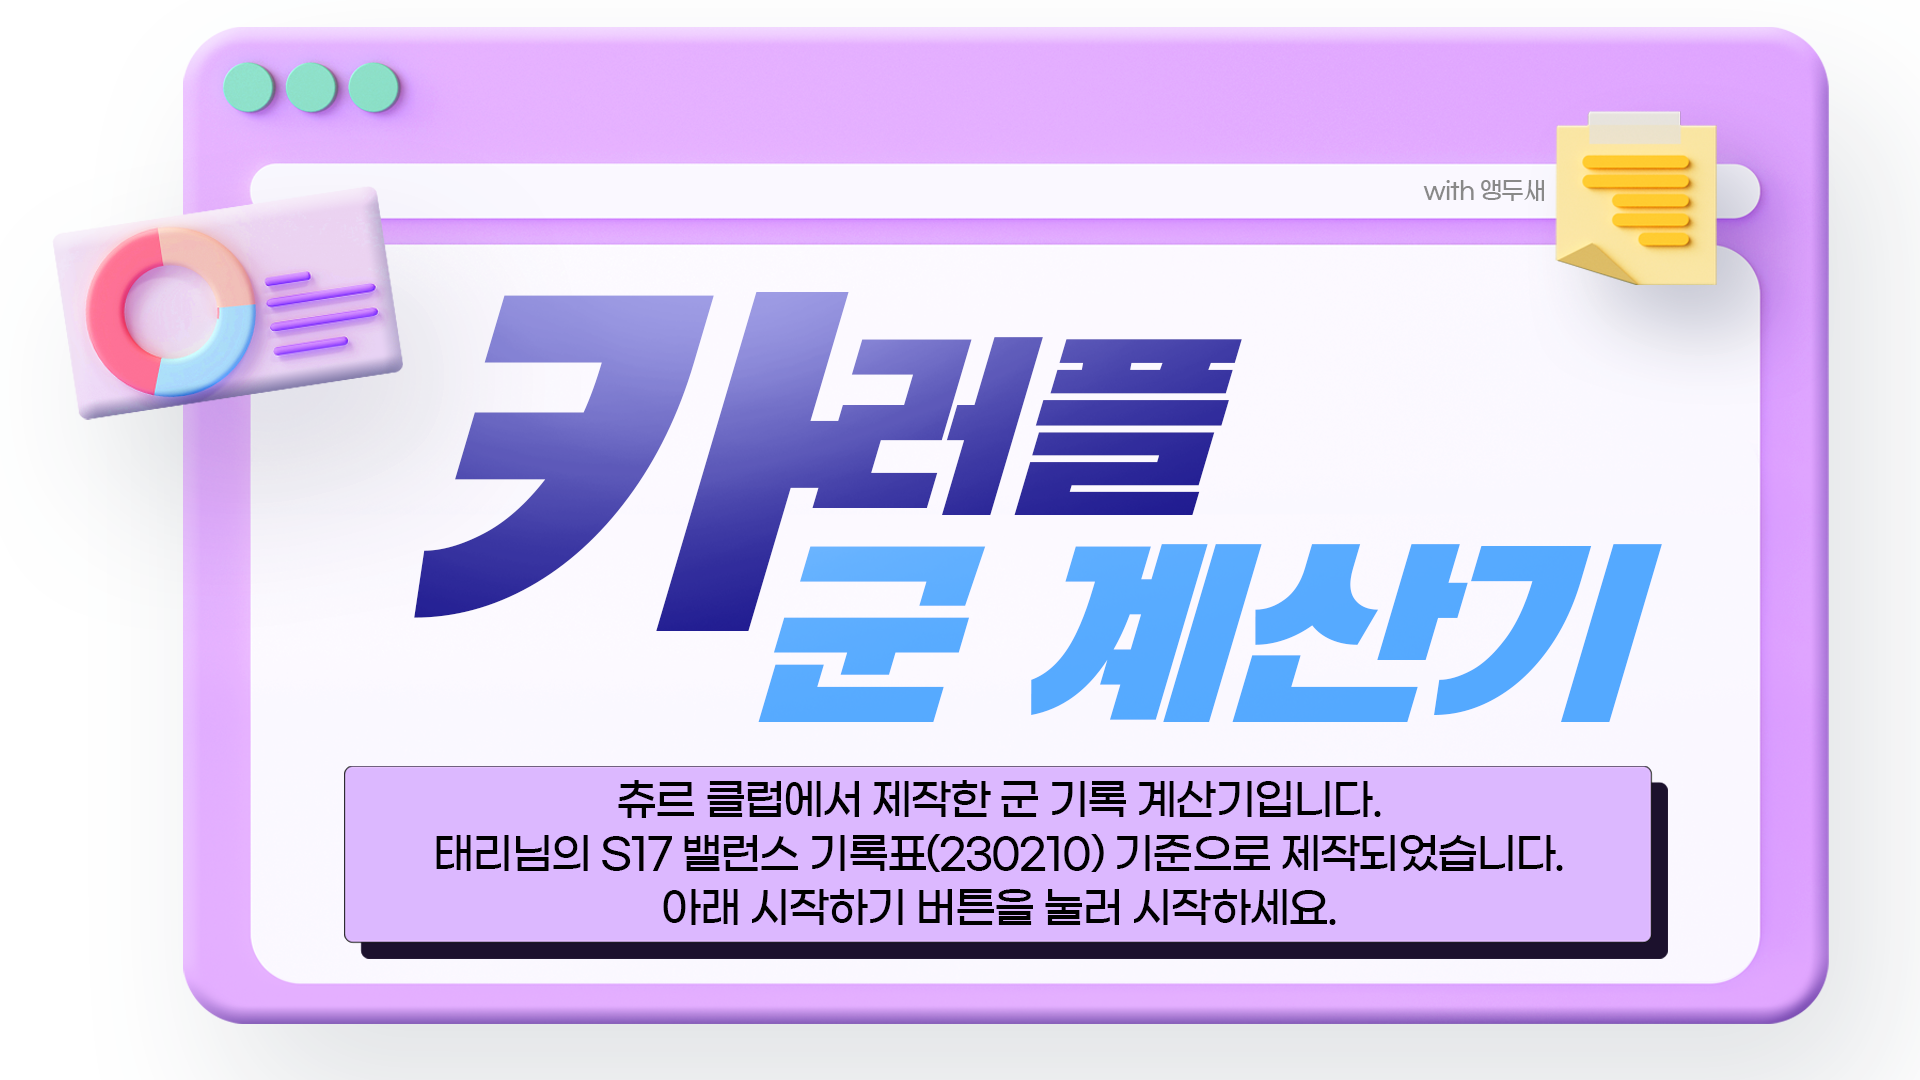
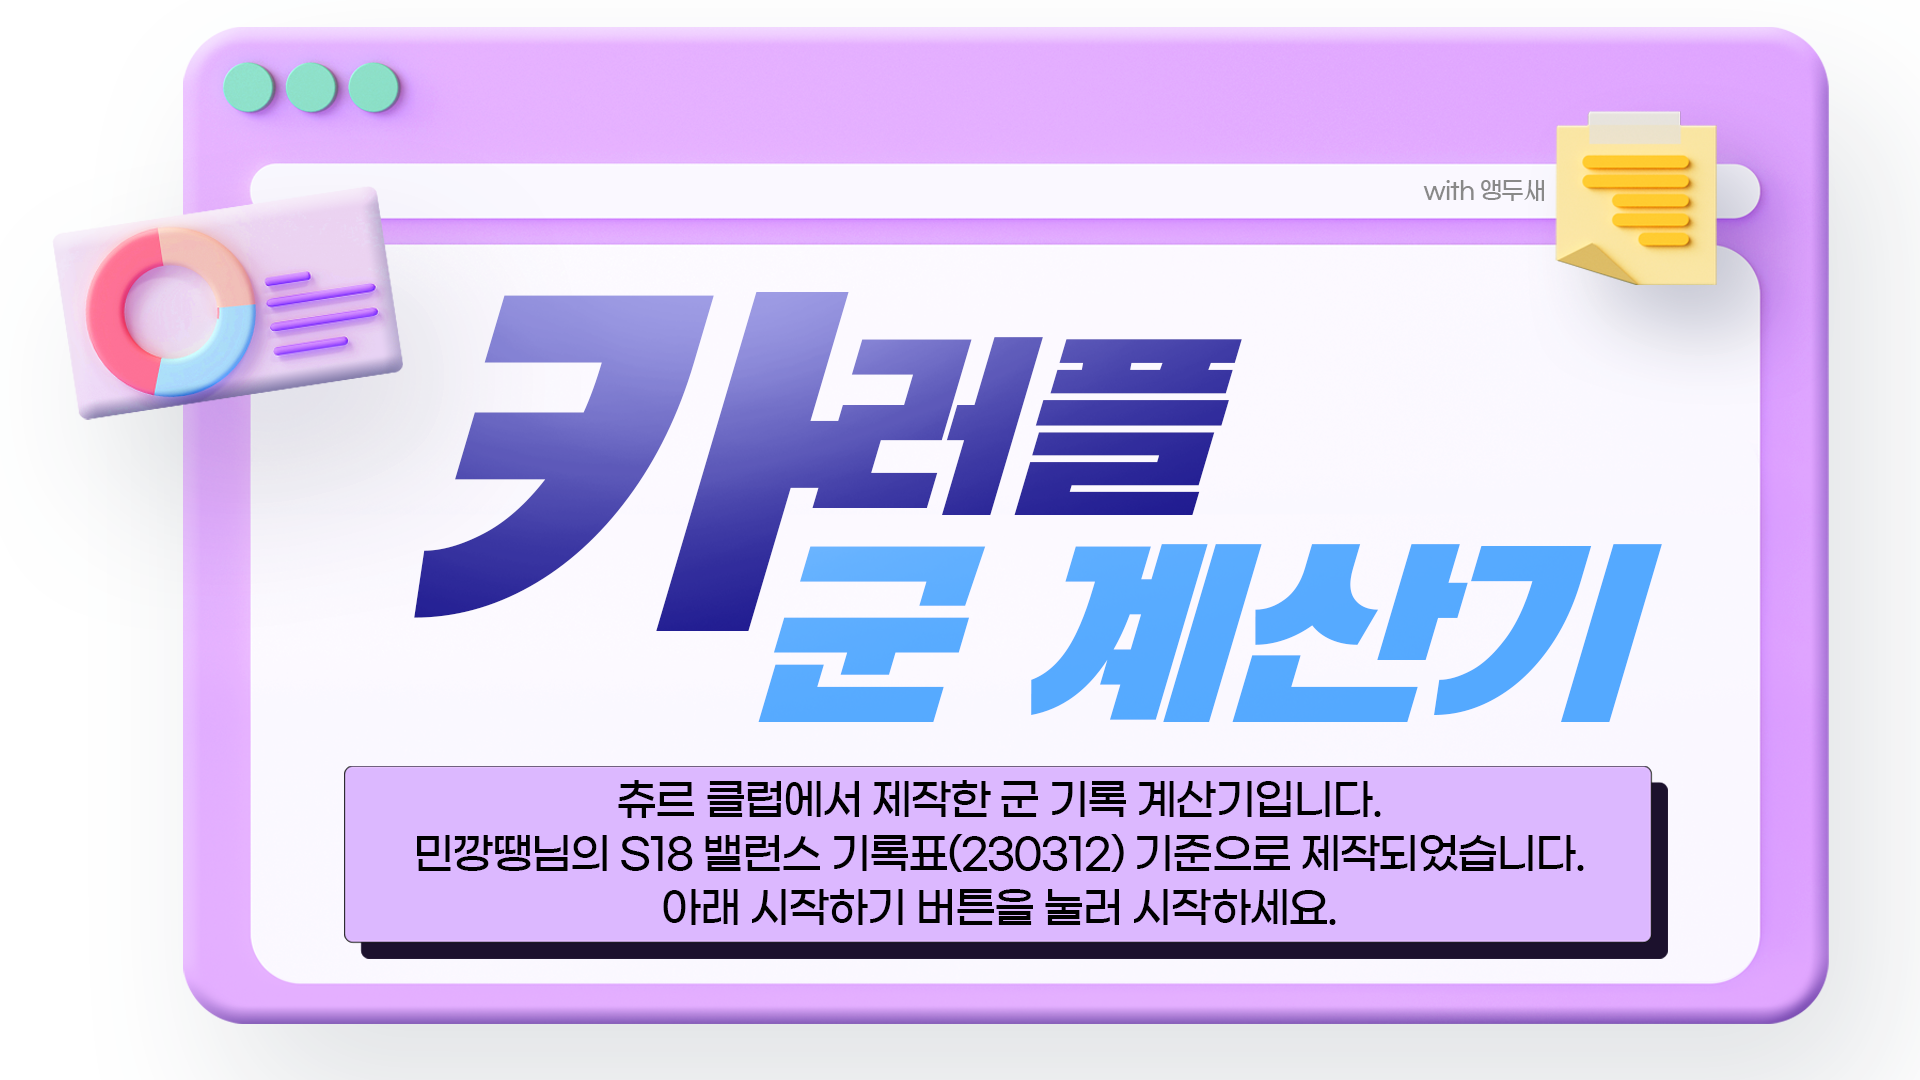
[frontend] Season 18 Update

Changed region(s): [[0.2188, 0.7639, 0.8125, 0.825]]

diff --git a/client/src/components/TestPage/mapData.js b/client/src/components/TestPage/mapData.js
@@ -11,12 +11,12 @@ const mapData = [
     },
     {
         "name" : "비치 해변 드라이브",
-        "record" : ["01:48:49", "01:49:49", "01:50:99", "01:52:49", "01:53:99", "01:55:99", "01:55:99 +"],
+        "record" : ["01:47:99", "01:48:99", "01:49:49", "01:51:99", "01:53:49", "01:55:49", "01:55:49 +"],
         "image" : "003 비치해변.png"
     },
     {
         "name" : "WKC 싱가폴 서킷",
-        "record" : ["01:56:99", "01:58:49", "01:59:99", "02:01:99", "02:03:99", "02:05:99", "02:05:99 +"],
+        "record" : ["01:57:99", "01:59:99", "02:01:99", "02:03:49", "02:04:99", "02:05:99", "02:05:99 +"],
         "image" : "004 싱가폴서킷.png"
     },
     {
@@ -26,7 +26,7 @@ const mapData = [
     },
     {
         "name" : "차이나 라사",
-        "record" : ["01:42:99", "01:43:99", "01:45:49", "01:46:99", "01:48:99", "01:50:99", "01:50:99 +"],
+        "record" : ["01:42:49", "01:43:49", "01:44:99", "01:46:49", "01:48:49", "01:49:99", "01:49:99 +"],
         "image" : "006 차이나라사.png"
     },
     {
@@ -47,12 +47,12 @@ const mapData = [
     },
     {
         "name" : "월드 두바이 다운타운",
-        "record" : ["01:40:49", "01:41:49", "01:42:99", "01:44:49", "01:45:99", "01:47:99", "01:47:99 +"],
+        "record" : ["01:39:99", "01:40:99", "01:42:49", "01:43:99", "01:45:49", "01:47:49", "01:47:49 +"],
         "image" : "002 두바이.png"
     },
     {
         "name" : "도검 야외 수련관",
-        "record" : ["01:27:99", "01:28:99", "01:30:49", "01:31:99", "01:33:49", "01:34:99", "01:34:99 +"],
+        "record" : ["01:27:99", "01:28:99", "01:29:99", "01:31:49", "01:32:99", "01:34:49", "01:34:49 +"],
         "image" : "003 도야수.png"
     },
     {
@@ -97,7 +97,7 @@ const mapData = [
     },
     {
         "name" : "노르테유 전투 비행장",
-        "record" : ["01:45:99", "01:46:99", "01:48:99", "01:50:99", "01:52:99", "01:54:99", "01:54:99 +"],
+        "record" : ["01:45:49", "01:46:49", "01:48:49", "01:50:49", "01:52:49", "01:54:49", "01:54:49 +"],
         "image" : "012 노르테유전투비행장.png"
     },
     {
@@ -107,7 +107,7 @@ const mapData = [
     },
     {
         "name" : "빌리지 익스트림 경기장",
-        "record" : ["01:35:99", "01:37:99", "01:39:49", "01:40:99", "01:42:99", "01:44:99", "01:44:99 +"],
+        "record" : ["01:35:49", "01:37:49", "01:39:49", "01:40:99", "01:42:99", "01:44:99", "01:44:99 +"],
         "image" : "014 익스트림.png"
     },
     {
@@ -137,7 +137,7 @@ const mapData = [
     },
     {
         "name" : "팩토리 부비트랩 공장 탐험",
-        "record" : ["01:39:99", "01:41:49", "01:42:99", "01:44:99", "01:46:99", "01:48:99", "01:48:99 +"],
+        "record" : ["01:39:49", "01:40:99", "01:42:49", "01:44:49", "01:46:49", "01:48:49", "01:48:49 +"],
         "image" : "020 팩부공.png"
     },
     {
@@ -193,7 +193,7 @@ const mapData = [
     },
     {
         "name" : "WKC 브라질 서킷",
-        "record" : ["01:43:49", "01:44:99", "01:46:49", "01:47:99", "01:49:49", "01:51:99", "01:51:99 +"],
+        "record" : ["01:43:99", "01:45:49", "01:46:99", "01:48:49", "01:50:99", "01:51:49", "01:51:49 +"],
         "image" : "006 브라질 서킷.png"
     },
     {
@@ -203,7 +203,7 @@ const mapData = [
     },
     {
         "name" : "대저택 은밀한 지하실",
-        "record" : ["01:53:99", "01:55:99", "01:57:99", "01:59:99", "02:01:99", "02:03:99", "02:03:99 +"],
+        "record" : ["01:53:99", "01:55:49", "01:57:49", "01:59:49", "02:01:49", "02:03:49", "02:03:49 +"],
         "image" : "008 대저택.png"
     },
     {
@@ -213,7 +213,7 @@ const mapData = [
     },
     {
         "name" : "해적 숨겨진 보물",
-        "record" : ["01:54:99", "01:56:99", "01:58:99", "02:00:99", "02:02:99", "02:04:99", "02:04:99 +"],
+        "record" : ["01:55:99", "01:57:99", "01:59:49", "02:01:99", "02:03:99", "02:05:99", "02:05:99 +"],
         "image" : "010 해숨보.png"
     },
     {
@@ -253,7 +253,7 @@ const mapData = [
     },
     {
         "name" : "도검 구름의 협곡",
-        "record" : ["01:34:99", "01:36:49", "01:37:99", "01:39:49", "01:40:99", "01:42:99", "01:42:99 +"],
+        "record" : ["01:34:49", "01:35:99", "01:37:49", "01:38:99", "01:40:49", "01:42:49", "01:42:49 +"],
         "image" : "018 도검 협곡.png"
     },
     {
@@ -263,17 +263,17 @@ const mapData = [
     },
     {
         "name" : "해적 상어섬의 비밀",
-        "record" : ["02:08:99", "02:10:49", "02:11:99", "02:13:99", "02:15:99", "02:17:99", "02:17:99 +"],
+        "record" : ["02:08:99", "02:10:49", "02:11:99", "02:13:49", "02:15:49", "02:17:49", "02:17:49 +"],
         "image" : "020 상어섬.png"
     },
     {
         "name" : "포레스트 오싹한 공중다리",
-        "record" : ["02:01:99", "02:03:49", "02:04:99", "02:06:99", "02:08:99", "02:10:99", "02:10:99 +"],
+        "record" : ["02:01:99", "02:03:49", "02:04:49", "02:06:49", "02:08:49", "02:10:49", "02:10:49 +"],
         "image" : "021 포오공.png"
     },
     {
         "name" : "포레스트 대관령",
-        "record" : ["01:17:49", "01:18:49", "01:19:49", "01:20:49", "01:21:99", "01:23:99", "01:23:99 +"],
+        "record" : ["01:16:99", "01:17:99", "01:18:99", "01:19:99", "01:21:49", "01:23:49", "01:23:49 +"],
         "image" : "022 포레스트 대관령.png"
     },
     {
@@ -289,12 +289,12 @@ const mapData = [
     
     {
         "name" : "동화나라 이상한 나라의 문",
-        "record" : ["01:50:99", "01:52:99", "01:54:99", "01:56:99", "01:58:99", "02:00:99", "02:00:99 +"],
+        "record" : ["01:51:99", "01:53:99", "01:55:99", "01:57:99", "01:59:99", "02:01:99", "02:01:99 +"],
         "image" : "001 동이문.png"
     },
     {
         "name" : "노르테유 익스프레스",
-        "record" : ["01:47:99", "01:49:99", "01:51:99", "01:53:99", "01:55:99", "01:57:99", "01:57:99 +"],
+        "record" : ["01:47:49", "01:49:49", "01:51:49", "01:53:49", "01:55:49", "01:57:49", "01:57:49 +"],
         "image" : "002 노익.png"
     },
     {
@@ -314,23 +314,28 @@ const mapData = [
     },
     {
         "name" : "공동묘지 마왕의 초대",
-        "record" : ["01:42:49", "01:43:99", "01:45:99", "01:47:99", "01:49:99", "01:51:99", "01:51:99 +"],
+        "record" : ["01:42:49", "01:43:99", "01:45:99", "01:47:49", "01:49:49", "01:51:49", "01:51:49 +"],
         "image" : "006 공마초.png"
     },
     {
         "name" : "아이스 설산 다운힐",
-        "record" : ["02:07:49", "02:08:99", "02:10:99", "02:12:99", "02:14:99", "02:16:99", "02:16:99 +"],
+        "record" : ["02:06:99", "02:08:49", "02:10:49", "02:12:49", "02:14:49", "02:16:49", "02:16:49 +"],
         "image" : "007 설산.png"
     },
     {
         "name" : "(R)포레스트 지그재그",
-        "record" : ["02:03:99", "02:05:99", "02:07:99", "02:09:99", "02:11:99", "02:13:99", "02:13:99 +"],
+        "record" : ["02:03:49", "02:05:49", "02:07:49", "02:09:49", "02:11:49", "02:13:49", "02:13:49 +"],
         "image" : "008 리버스 직잭.png"
     },
     {
         "name" : "문힐시티 숨겨진 지하터널",
-        "record" : ["01:50:49", "01:51:99", "01:53:99", "01:55:99", "01:57:99", "01:59:99", "01:59:99 +"],
+        "record" : ["01:49:99", "01:51:49", "01:52:99", "01:54:99", "01:56:99", "01:58:99", "01:58:99 +"],
         "image" : "009 문힐시티 숨겨진 지하터널.png"
+    },
+    {
+        "name" : "광산 위험한 제련소",
+        "record" : ["02:05:49", "02:06:99", "02:08:99", "02:10:99", "02:12:99", "02:14:99", "02:14:99 +"],
+        "image" : "010 광산 위험한 제련소.png"
     }
 ];
 
@@ -338,10 +343,10 @@ const mapCount = {
     "Rookie" : 8,
     "L3" : 25,
     "L2" : 24,
-    "L1" : 9,
+    "L1" : 10,
 };
 const mapAllCount = Object.values(mapCount).reduce((a, b) => a + b, 0);
-const season = 17;
+const season = 18;
 
 export default mapData;
 export { mapCount, mapAllCount, season };

diff --git a/client/src/components/MyPage/RecordCard.js b/client/src/components/MyPage/RecordCard.js
@@ -18,6 +18,11 @@ function RecordCard(props) {
     navigation(`/result/${props.data._id}`);
   }
 
+  const cardColor = () => {
+    if(props.data.season === 17) return 'primary';
+    if(props.data.season === 18) return 'success';
+  }
+
   useEffect(() => {
     setDate(new Date(props.data.createdAt));
     setLoading(false);
@@ -25,7 +30,7 @@ function RecordCard(props) {
   
   return (
     loading ? <Loading /> :
-    <MDBCard background='primary' className='shadow-5 w-100 text-white mb-3' style={{cursor: 'pointer'}} onClick={goResultPage}>
+    <MDBCard background={cardColor()} className='shadow-5 w-100 text-white mb-3' style={{cursor: 'pointer'}} onClick={goResultPage}>
       <MDBCardHeader><b>S{props.data.season}</b></MDBCardHeader>
       <MDBCardBody>
         <MDBCardTitle><b>{props.data.license}</b></MDBCardTitle>

diff --git a/client/src/components/LandingPage/Intro.js b/client/src/components/LandingPage/Intro.js
@@ -26,7 +26,7 @@ export default function Intro(props) {
         <MDBCardBody>
           <MDBCardTitle><b>카러플 군 계산기</b></MDBCardTitle>
             {
-              props.content !== '' ? <MDBCardText>{props.content}</MDBCardText> :
+              props.content !== '' ? <MDBCardText style={{whiteSpace: 'pre-wrap'}}>{props.content}</MDBCardText> :
               <MDBCardText>
               제보 및 피드백 항상 감사합니다!<br />
               지속해서 개선하도록 노력하겠습니다.

diff --git a/client/src/components/TestPage/mapImages.js b/client/src/components/TestPage/mapImages.js
@@ -67,6 +67,7 @@ import L1_006 from "../../images/map/006 공마초.png";
 import L1_007 from "../../images/map/007 설산.png";
 import L1_008 from "../../images/map/008 리버스 직잭.png";
 import L1_009 from "../../images/map/009 문힐시티 숨겨진 지하터널.png";
+import L1_010 from "../../images/map/010 광산 위험한 제련소.png";
 
 const mapImages = [
     Rookie_001,
@@ -138,6 +139,7 @@ const mapImages = [
     L1_007,
     L1_008,
     L1_009,
+    L1_010,
 ]
 
 export default mapImages;

diff --git a/client/src/components/LandingPage/Notice.js b/client/src/components/LandingPage/Notice.js
@@ -25,7 +25,7 @@ export default function Notice(props) {
             ></MDBBtn>
           </MDBModalHeader>
           <MDBModalBody>
-            <p className='text-center'>
+            <p className='text-center' style={{whiteSpace: 'pre-wrap'}}>
               {props.content}
             </p>
             <img src={Logo} alt='Logo' className='w-100 rounded-4'/>
